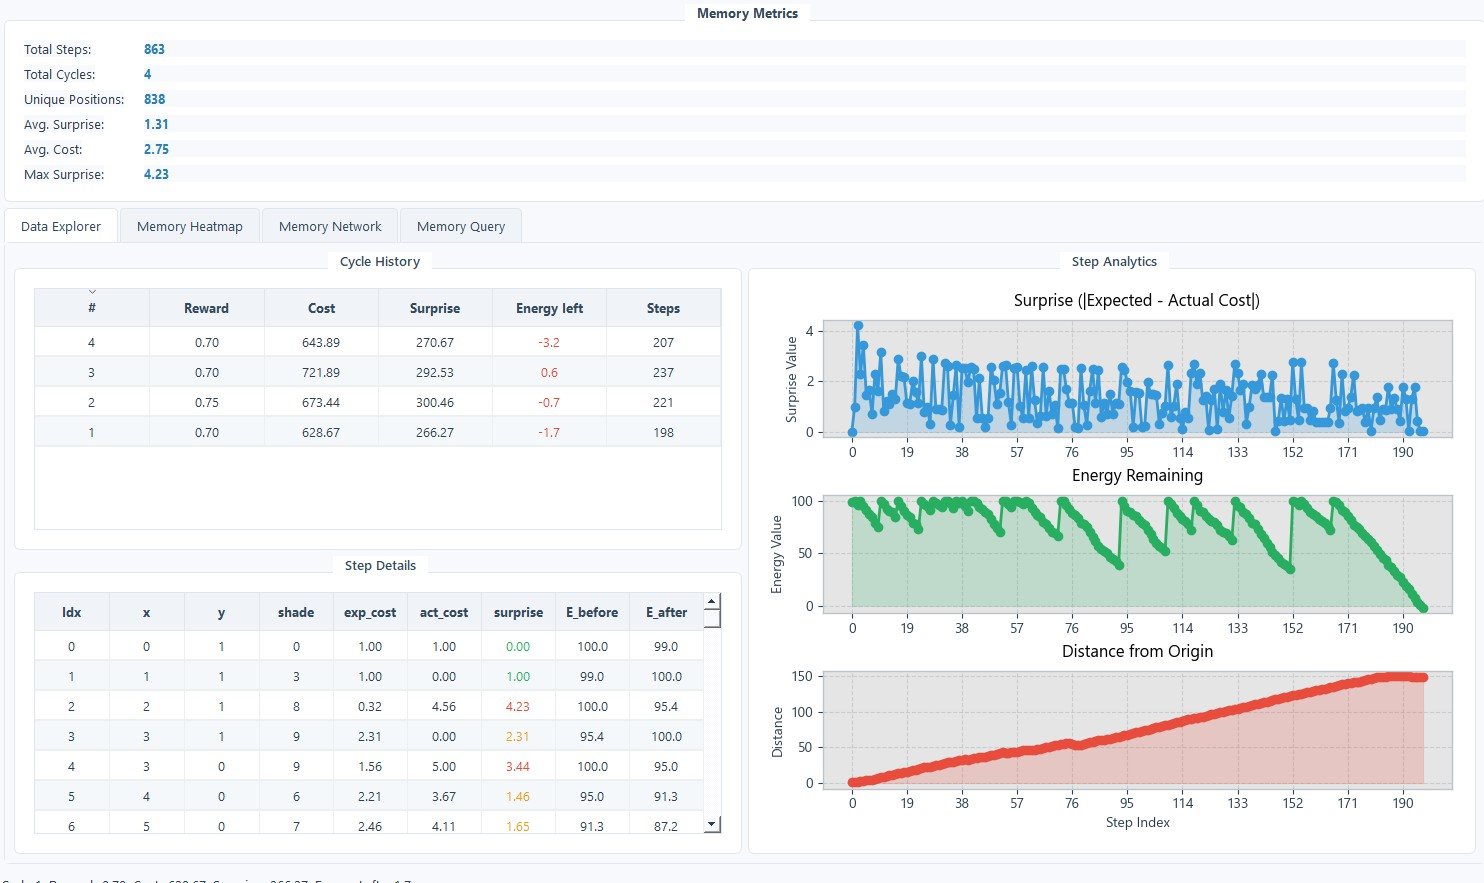
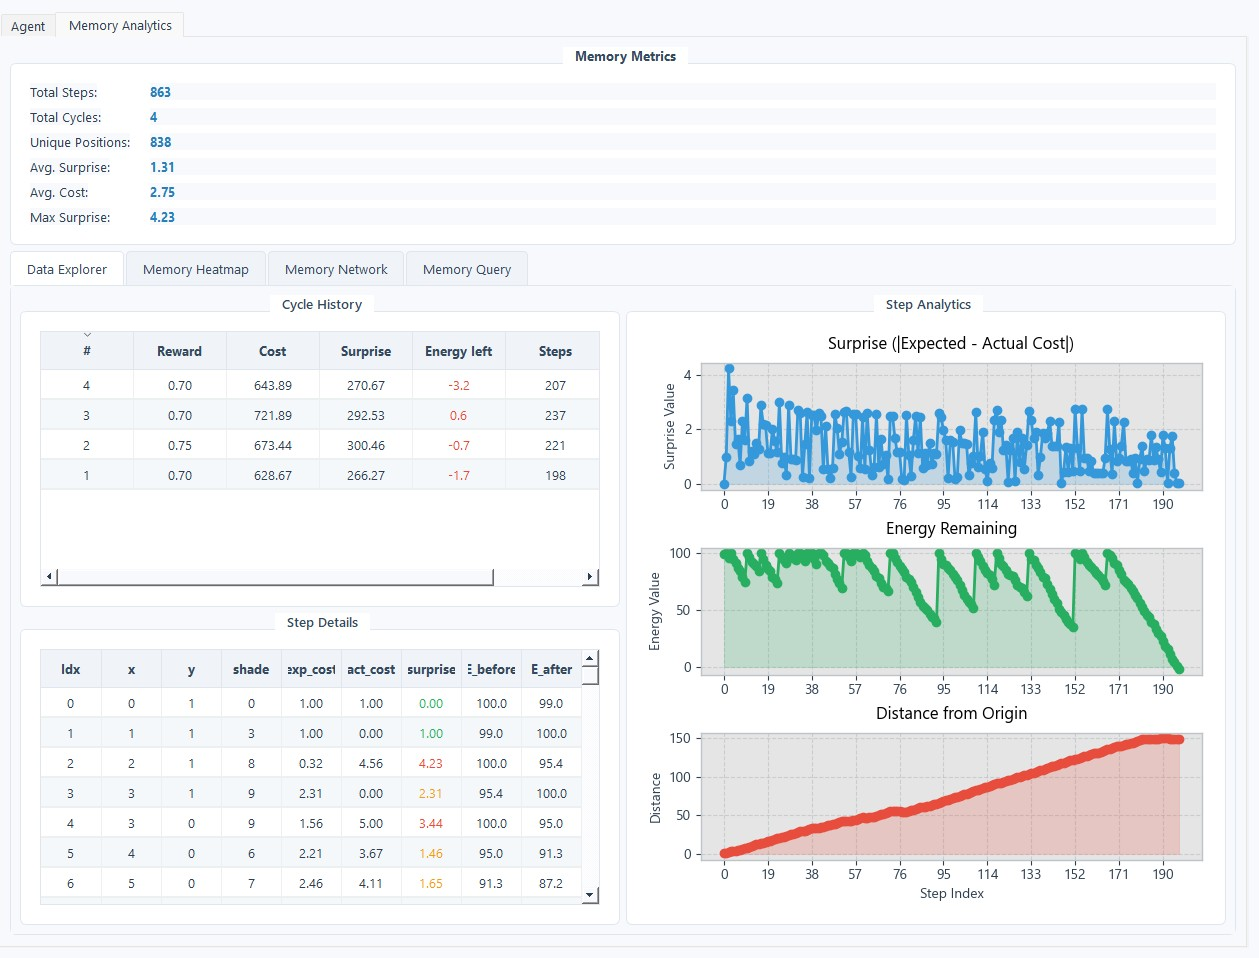
combined main and analytics apps

diff --git a/app_main.py b/app_main.py
@@ -11,6 +11,7 @@ from PyQt5 import QtCore, QtGui, QtWidgets
 
 from module_agent import Agent, Memory, euclidean, MEMORY_PATH, CYCLE_PATH, StepExperience
 from module_world import GridWorld, WORLD_PATH, BASE_CELL_COST, Coord
+from app_analysis import AnalyticsPanel, MemoryData
 
 import matplotlib.pyplot as plt
 from matplotlib.backends.backend_qt5agg import FigureCanvasQTAgg as FigureCanvas
@@ -137,9 +138,18 @@ class AgentWindow(QtWidgets.QMainWindow):
         self.setCentralWidget(self.central)
         
         # Main layout
-        main_layout = QtWidgets.QHBoxLayout(self.central)
+        self.tabs = QtWidgets.QTabWidget()
+        main_layout = QtWidgets.QVBoxLayout(self.central)
+        main_layout.addWidget(self.tabs)
         main_layout.setSpacing(15)
         main_layout.setContentsMargins(15, 15, 15, 15)
+        
+        agent_tab = QtWidgets.QWidget()
+        agent_layout = QtWidgets.QHBoxLayout(agent_tab)
+        agent_layout.setSpacing(15)
+        agent_layout.setContentsMargins(15, 15, 15, 15)
+        
+        self.tabs.addTab(agent_tab, "Agent")
         
         # Left panel containing the grid canvas
         left_panel = QtWidgets.QVBoxLayout()
@@ -180,12 +190,12 @@ class AgentWindow(QtWidgets.QMainWindow):
         status_layout.addWidget(self.cycles_run_label)
         
         left_panel.addWidget(self.status_bar)
-        main_layout.addLayout(left_panel, stretch=5)
+        agent_layout.addLayout(left_panel, stretch=5)
         
         # Right panel
         right_panel = QtWidgets.QVBoxLayout()
         right_panel.setSpacing(10)
-        main_layout.addLayout(right_panel, stretch=4)
+        agent_layout.addLayout(right_panel, stretch=4)
         
         # Controls group
         ctrl_group = QtWidgets.QGroupBox("Controls")
@@ -254,6 +264,11 @@ class AgentWindow(QtWidgets.QMainWindow):
         hist_layout = QtWidgets.QVBoxLayout()
         history_group.setLayout(hist_layout)
         
+        table_container = QtWidgets.QWidget()
+        table_layout = QtWidgets.QVBoxLayout(table_container)
+        table_layout.setContentsMargins(4, 8, 4, 4)  # Add top margin to prevent overlap
+        table_layout.setSpacing(4)  # Add some space between widgets
+
         self.table = QtWidgets.QTableWidget(0, 5)
         header_labels = ["Cycle #", "Reward", "Cost", "Surprise", "Energy"]
         self.table.setHorizontalHeaderLabels(header_labels)
@@ -261,27 +276,58 @@ class AgentWindow(QtWidgets.QMainWindow):
         self.table.setAlternatingRowColors(True)
         self.table.verticalHeader().setVisible(False)
         self.table.setSelectionBehavior(QtWidgets.QAbstractItemView.SelectRows)
-        
-        hist_layout.addWidget(self.table)
-        right_panel.addWidget(history_group)
-        
-        # Charts with improved styling
-        charts = QtWidgets.QGroupBox("Analytics")
+
+        table_layout.addWidget(self.table)
+        # Create a tab widget to hold history and analytics
+        info_tabs = QtWidgets.QTabWidget()
+
+        # --- Cycle History Tab ---
+        history_tab = QtWidgets.QWidget()
+        hist_layout = QtWidgets.QVBoxLayout(history_tab)
+        history_group = QtWidgets.QGroupBox("Cycle History")
+        hist_group_layout = QtWidgets.QVBoxLayout()
+        history_group.setLayout(hist_group_layout)
+
+        # Table setup
+        table_container = QtWidgets.QWidget()
+        table_layout = QtWidgets.QVBoxLayout(table_container)
+        table_layout.setContentsMargins(4, 8, 4, 4)
+        table_layout.setSpacing(4)
+
+        self.table = QtWidgets.QTableWidget(0, 5)
+        header_labels = ["Cycle #", "Reward", "Cost", "Surprise", "Energy"]
+        self.table.setHorizontalHeaderLabels(header_labels)
+        self.table.horizontalHeader().setSectionResizeMode(QtWidgets.QHeaderView.Stretch)
+        self.table.setAlternatingRowColors(True)
+        self.table.verticalHeader().setVisible(False)
+        self.table.setSelectionBehavior(QtWidgets.QAbstractItemView.SelectRows)
+
+        table_layout.addWidget(self.table)
+        hist_group_layout.addWidget(table_container)
+        hist_layout.addWidget(history_group)
+        info_tabs.addTab(history_tab, "Cycle History")
+
+        # --- Analytics Tab ---
+        analytics_tab = QtWidgets.QWidget()
+        analytics_layout = QtWidgets.QVBoxLayout(analytics_tab)
+        charts = QtWidgets.QGroupBox("History")
         ch_layout = QtWidgets.QVBoxLayout()
         charts.setLayout(ch_layout)
-        
-        # Use a larger figure with better proportions and white background
+
         self.figure = plt.Figure(figsize=(6, 9), dpi=100, facecolor='white')
         self.canvas_chart = FigureCanvas(self.figure)
         self.canvas_chart.setStyleSheet("background-color: white;")
-        
-        # Create subplots with better spacing
+
         self.ax_surprise = self.figure.add_subplot(3, 1, 1)
         self.ax_energy = self.figure.add_subplot(3, 1, 2)
         self.ax_distance = self.figure.add_subplot(3, 1, 3)
-        
+
         ch_layout.addWidget(self.canvas_chart)
-        right_panel.addWidget(charts, stretch=2)
+        analytics_layout.addWidget(charts)
+        info_tabs.addTab(analytics_tab, "History")
+
+        # Add the new tab widget to the right panel
+        right_panel.addWidget(info_tabs, stretch=2)
         
         # Initialize world/agent
         self.world = GridWorld(grid_size, grid_size, random.Random(seed))
@@ -291,6 +337,12 @@ class AgentWindow(QtWidgets.QMainWindow):
         self.cycle_history: List[dict] = []
         self.load_cycle_history()
         
+        # Analysis tab
+        self.memory_data = MemoryData()
+        self.analytics_tab = AnalyticsPanel(self.memory_data)
+        
+        self.tabs.addTab(self.analytics_tab, "Memory Analytics")
+                
         # Visualization helpers
         self.trails: List[List[Coord]] = []
         self.step_history: List[list] = []

diff --git a/app_analysis.py b/app_analysis.py
@@ -1072,65 +1072,46 @@ class MemoryNetworkWidget(QtWidgets.QWidget):
         self.figure.tight_layout()
         self.canvas.draw()
 
-class AnalyticsWindow(QtWidgets.QMainWindow):
-    def __init__(self, data: MemoryData):
-        super().__init__()
-        self.setWindowTitle("Advanced Memory Analytics Viewer")
-        self.resize(1500, 900)
+class AnalyticsPanel(QtWidgets.QWidget):
+    def __init__(self, data: MemoryData, parent=None):
+        super().__init__(parent)
         self.data = data
-        
-        # Apply professional stylesheet
+
+        # Apply consistent UI style if desired
         self.setStyleSheet(APP_STYLES)
-        
-        # Configure matplotlib for better chart appearance
-        self.configure_matplotlib_style()
-        
-        # Create central widget with tab layout
-        central = QtWidgets.QWidget()
-        self.setCentralWidget(central)
-        main_layout = QtWidgets.QVBoxLayout(central)
-        
-        # Top panel with memory metrics
+
+        # Main layout
+        layout = QtWidgets.QVBoxLayout(self)
+
+        # Top panel: memory metrics summary
         self.metrics_widget = MemoryMetricsWidget()
-        main_layout.addWidget(self.metrics_widget)
-        
-        # Tab widget for different views
+        layout.addWidget(self.metrics_widget)
+
+        # Central tab view for analytics
         self.tabs = QtWidgets.QTabWidget()
-        main_layout.addWidget(self.tabs)
-        
-        # Tab 1: Data Explorer
+        layout.addWidget(self.tabs)
+
+        # Create tab contents
         self.create_data_explorer_tab()
-        
-        # Tab 2: Memory Heatmap
         self.create_memory_heatmap_tab()
-        
-        # Tab 3: Memory Network
         self.create_memory_network_tab()
-        
-        # Tab 4: Memory Query Analysis
         self.create_memory_query_tab()
-        
-        # Load data
+
+        # Populate memory metrics and tables if data is available
         if self.data.cycles is not None and self.data.steps is not None:
             self.cycle_table.populate(self.data.cycles, self.data.cycle_indices)
-            
-            # Display first cycle if available
+
             if self.data.cycles.size:
                 self.select_cycle(0)
-            
-            # Update metrics
+
             metrics = self.data.get_memory_metrics()
             self.metrics_widget.update_metrics(metrics)
-            
-            # Set data for other tabs
+
             self.heatmap_widget.set_data(self.data)
             self.network_widget.set_data(self.data)
             self.query_panel.set_data(self.data)
-            
-            # Connect signal
+
             self.cycle_table.itemSelectionChanged.connect(self._on_cycle_select)
-        else:
-            self._show_warning("No memory records found in the save directory.")
 
     def configure_matplotlib_style(self):
         """Configure matplotlib for a modern, professional look"""
@@ -1249,9 +1230,10 @@ class AnalyticsWindow(QtWidgets.QMainWindow):
         # Update the status bar with cycle info
         if idx < len(self.data.cycles):
             cycle = self.data.cycles[idx]
-            self.statusBar().showMessage(
-                f"Cycle {idx+1}: Reward={cycle['reward']:.2f}, Cost={cycle['cost']:.2f}, "
-                f"Surprise={cycle['surprise']:.2f}, Energy Left={cycle['energy_left']:.1f}"
+            print(
+                f"[Analytics] Cycle {idx+1}: Reward={cycle['reward']:.2f}, "
+                f"Cost={cycle['cost']:.2f}, Surprise={cycle['surprise']:.2f}, "
+                f"Energy Left={cycle['energy_left']:.1f}"
             )
 
     def _update_plots(self, steps: np.ndarray):
@@ -1310,7 +1292,7 @@ class AnalyticsWindow(QtWidgets.QMainWindow):
 def main():
     app = QtWidgets.QApplication([])
     data = MemoryData()
-    win = AnalyticsWindow(data)
+    win = AnalyticsPanel(data)
     win.show()
     sys.exit(app.exec_())
 
